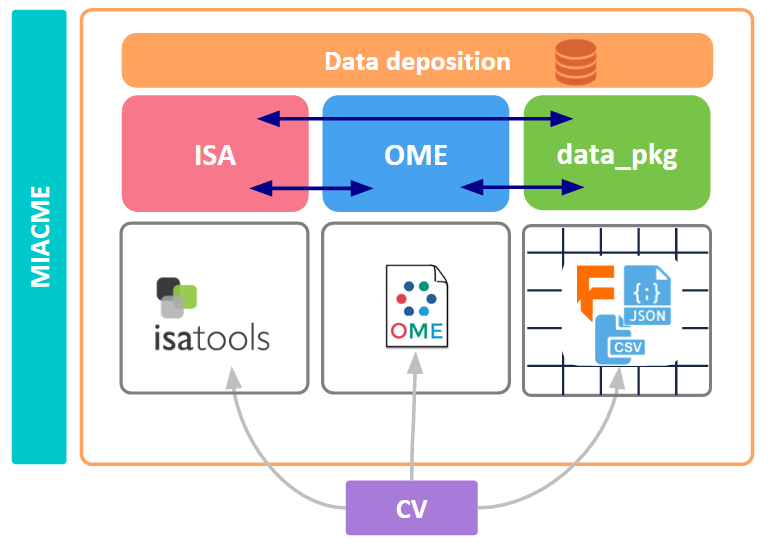
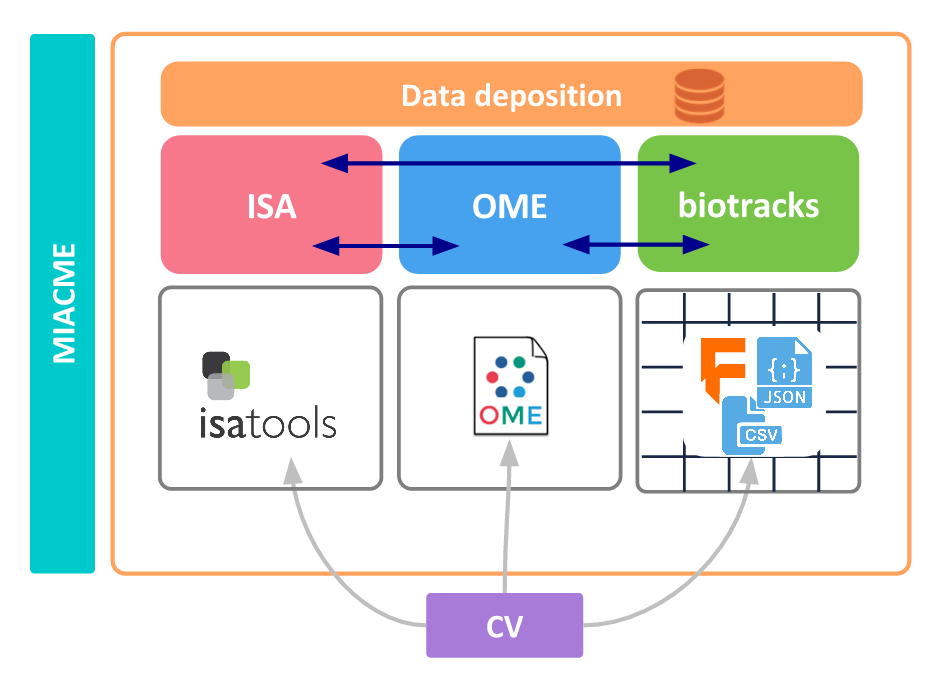
Final edits and publish

Changed region(s): [[0.0, 0.0, 0.9987, 1.0], [0.2497, 0.2652, 0.3121, 0.3241]]

diff --git a/_case_studies/cmso.md b/_case_studies/cmso.md
@@ -14,77 +14,77 @@ Researchers worldwide try to understand how cells move, a process
 extremely important for many physiological and pathological
 conditions. [Cell migration](https://en.wikipedia.org/wiki/Cell_migration)
 is in fact involved in many processes, like wound healing, neuronal
-development, and cancer invasion. The [CMSO](https://cmso.science/) is
-a community trying to build standards for cell migration data, in
-order to enable data sharing in the field. The organization has 3
+development and cancer invasion. The [CMSO](https://cmso.science/) is
+a community building standards for cell migration data, in order to
+enable data sharing in the field. The organization has three main
 working groups:
 
-- Minimal reporting requirement
-  ([MIACME](https://github.com/CellMigStandOrg/MIACME) = Minimum
-  Information About a Cell Migration Experiment)
+- Minimal reporting requirement (developing [MIACME](https://github.com/CellMigStandOrg/MIACME), i.e. the Minimum Information About a Cell Migration Experiment)
 - Controlled Vocabularies
-  ([CMEO](https://github.com/CellMigStandOrg/CMEO) = Cell Migration
-  Experiment-driven Ontology)
 - Data Formats and APIs
 
-The last working group is the one where Data Package[^datapackages]
-could be used/expanded for the definition of a standard format and
-corresponding libraries to interact with these standards.  In
-particular, we have started to address the standardization of cell
-tracking data: data produced when tracking software takes a series of
-cell images from a microscope and reconstructs their movement in time.
+The last working group is the one where the Data Package
+specifications could be used or expanded for the definition of a
+standard format and the corresponding libraries to interact with these
+standards. In particular, we have started to address the
+standardization of cell tracking data.  This is data produced using
+tracking software that reconstructs cell movement in time based on
+images from a microscope.
 
 ![Diagram](/img/case-studies/cmso-1.png)
-*How everything fits together*
+*In pink, the [ISA](http://isa-tools.org/) (Investigation Study Assay) model to annotate the experimental metadata; in blue, the [OME](http://www.openmicroscopy.org/) (Open Microscopy Environment) model for the imaging data; in green, our biotracks format based on the Data Package specification for the analytics data (cell tracking, positions, features etc.); in purple, CV: Controlled Vocabulary; and in turquoise, [MIACME](https://github.com/CellMigStandOrg/MIACME): Minimum Information About a Cell Migration Experiment.  [CC BY-SA 4.0](https://creativecommons.org/licenses/by-sa/4.0/) Credit: Paola Masuzzo (text) and CMSO (diagram).*
 {: .caption}
 
 ## What are the challenges you face working with data?
 
-CMSO deals specifically with cell migration data (a discipline of cell
+CMSO deals specifically with cell migration data (a subject of cell
 biology). The main challenge lies in the heterogeneity of the
 data. This diversity has its origin in two factors:
 
-- **Experimentally**: cell migration data can be produced using many
+- **Experimentally**: Cell migration data can be produced using many
   diverse techniques (imaging, non-imaging, dynamic, static,
   high-throughput/screening, etc.)
-- **Analytically**: these data are produced using many diverse software
-  packages, each of these writing data to specific (sometimes
-  proprietary) file formats. This diversity hampers, or at least makes
-  very difficult, things like meta-analysis, data integration across
-  diverse sources, data mining, data reproducibility.
+- **Analytically**: These data are produced using many diverse
+  software packages, each of these writing data to specific (sometimes
+  proprietary) file formats.
+
+This diversity hampers (or at least makes very difficult) procedures
+like meta-analysis, data integration, data mining, and last but not
+least, data *reproducibility*.
 
 ## How do you use the specs?
 
 CMSO has developed and is about to release the first specification of
 a
 [Cell Tracking format](https://cellmigstandorg.github.io/Tracks/). This
-specification is based on a tabular format, i.e. data are stored in
-tables.  Current v0.1 of this specification can be seen at
+specification is built on a tabular representation, i.e. data are
+stored in tables.  Current v0.1 of this specification can be seen at
 [here](https://cellmigstandorg.github.io/Tracks/v0.1/).
 
-CMSO is using the *Tabular* Data Package[^tdp] specification to
-represent cell migration-derived tracking data, as illustrated
-[here](https://github.com/CellMigStandOrg/biotracks). The
-specification is meant to accomplish two goals:
+CMSO is using the *Tabular* Data Package[^tdp] specification to represent
+cell migration-derived tracking data, as illustrated
+[here](https://github.com/CellMigStandOrg/biotracks/). The
+specification is used for two goals:
 
-- **Create a Data Package representation** where the data (in our case
-  objects like detected cells, links, and optionally tracks) are
-  stored in CSV files, while metadata and schema[^tableschema]
-  information are stored in a JSON file.
-- **Write** this Data Package to a pandas[^pandas] DataFrame, to aid
-  quick inspection and visualization.
+1. **Create a Data Package representation** where the data---in our
+   case objects (e.g.  cells detected in microscopy images), links,
+   and optionally tracks---are stored in CSV files, while metadata and
+   schema[^tableschema] information are stored in a JSON file.
+1. **Write** this Data Package to a pandas[^pandas] dataframe, to aid quick
+   inspection and visualization.
 
 You can see some examples
-[on our examples page](https://github.com/CellMigStandOrg/biotracks/tree/master/examples).
+[here](https://github.com/CellMigStandOrg/biotracks/tree/master/examples).
 
 ## How were you made aware of Frictionless Data?
 
 I am an Open Science fan and advocate, so I try to keep up to date
 with the initiatives of the
-[Open Knowledge International](https://okfn.org/) teams. I guess I saw
-a tweet and I checked the specs out. Also, I really wanted to keep
-this light and simple. So I googled for 'CSV and JSON' formats or
-something like that, and Frictionless Data popped out :).
+[Open Knowledge International](https://okfn.org) teams. I guess I saw
+a tweet and I checked the specs out. Also, CMSO really wanted to keep
+a possible specification and file format light and simple. So
+different people of the team must have googled for 'CSV and JSON
+formats' or something like that, and Frictionless Data popped out :).
 
 ## What else would you like to see developed?
 
@@ -96,22 +96,27 @@ how sustainable/sustained this spec will be in the future.
 
 ## What are the next things you are going to be working on yourself?
 
-I want to get a series of images, and run different cell tracking
-algorithms/software packages on them. Then I want to put the results
-into a common, light and easy-to-interpret CSV and JSON format, and
-show people how data containerization[^philosophy] can be the way to
-go to enable research data exchange and knowledge discovery.
+CMSO is looking into expanding the
+[list of examples](https://github.com/CellMigStandOrg/biotracks/tree/master/examples)
+we have so far in terms of tracking software. Personally, I would like
+to choose a reference data set (a live-cell, time-lapse microscopy
+data set) , and run different cell tracking algorithms/software
+packages on it. Then I want to put the results into a common, light
+and easy-to-interpret CSV+JSON format (the biotracks format), and show
+people how data containerization[^philosophy] can be the way to go to
+enable research data exchange and knowledge discovery at large.
 
 ## How do these specs compare to others?
 
 Cell tracking data are mostly stored in tabular format, but metadata
 are never kept together with the data, which makes data interpretation
-and sharing very difficult. The Frictionless Data spec takes care of
-this. Some other formats are based on XML[^xml] annotation, which
-certainly does the job, but are heavier (though perhaps more
-sustainable in the long term). I hate Excel formats, and unfortunately
-I need to parse those too. I love the integration with Python[^python]
-and the Pandas system. Highly valuable when doing Data Science.
+and sharing very difficult. The FD specifications take good care of
+this aspect. Some other formats are based on XML[^xml] annotation,
+which certainly does the job, but are perhaps heavier (even though
+perhaps more sustainable in the long term). I hate Excel formats, and
+unfortunately I need to parse those too. I love the integration with
+Python[^python] and the pandas[^pandas] system, this is a big plus
+when doing data science.
 
 ## What do you think are some other potential use cases.
 
